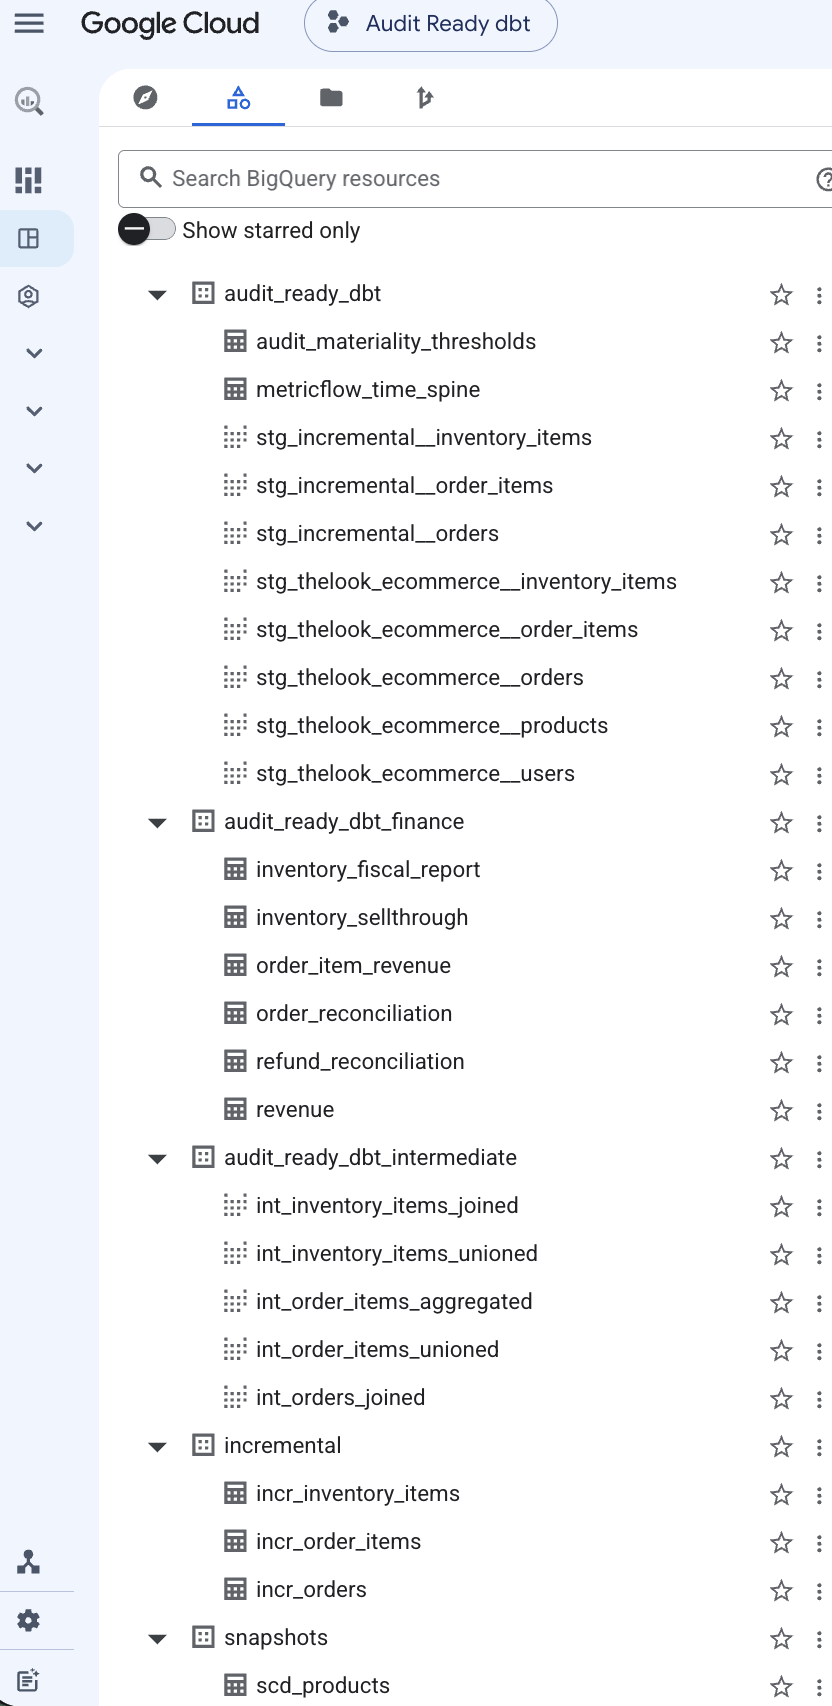
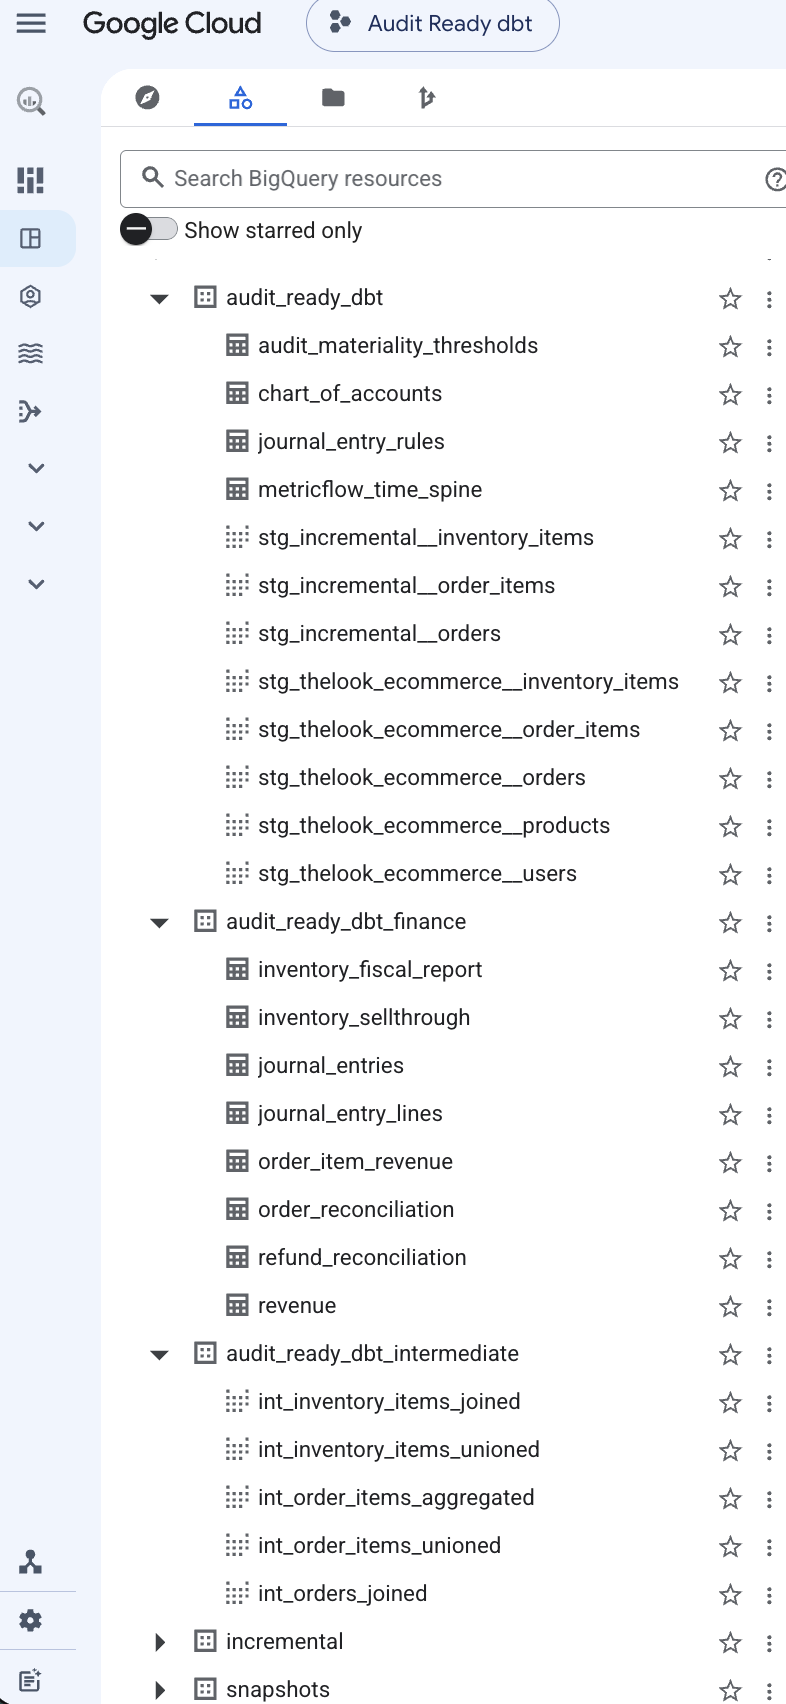
docs: refresh README screenshots and add AWS, parity, and CI captures
Replaced screenshots that predated the GL pipeline:
- lineage graph now includes the JE models, seeds, and tests
- the Airflow DAG list and grid show both DAGs and the AWS branch
- test results, BigQuery tree, Snowflake explorer

New screenshots, with captions:
- Athena query editor: the dbt-built tables and one day's balanced JEs
- S3 reports bucket: one business day's export files
- CloudFormation: the SAM-deployed stack and its four resources
- cross_warehouse_parity graph and its check_parity output
- GitHub Actions: all three CI jobs passing on main

Captions and surrounding text now match the new screenshots. The test
results note reflects zero warnings on the current data, and the parity
doc's result table matches the Airflow run shown in the screenshot.

diff --git a/README.md b/README.md
@@ -51,6 +51,8 @@ I adopted a hybrid architecture to balance development efficiency with productio
     - **Snowflake run results**: Verified end-to-end on 2026-09-13 — `dbt build --target snowflake` against a live Snowflake warehouse completed with zero errors (166 pass / 22 success / 1 expected warn). See [`docs/snowflake_prod_verification.md`](docs/snowflake_prod_verification.md) for details.
       ![Snowflake databases and schemas built by dbt](./images/snowflake_dbt_build.png)
     - **AWS Athena run results**: Verified end-to-end on 2026-09-29 — `dbt build --target athena` against **S3 + Glue Data Catalog + Athena** completed with zero errors (166 pass / 22 success / 1 expected warn), identical to BigQuery and Snowflake. Incremental marts are stored as **Iceberg** tables so `merge` works on Athena; a follow-up incremental run confirmed rows were upserted without duplicates. Access uses a dedicated least-privilege IAM user scoped to the project's S3 buckets. See [`docs/athena_prod_verification.md`](docs/athena_prod_verification.md) for details.
+      ![Athena query editor: Glue databases built by dbt and a journal_entries query result](./images/athena_query_journal_entries.png)
+      *Athena query editor — the tables dbt built in `audit_ready_dbt_finance` (left), and one day's journal entries: three balanced debit/credit pairs (revenue, returns, COGS) with the number of order/item lines behind each*
     - **Cross-warehouse parity (automated)**: Passing tests on every warehouse doesn't prove the *numbers* agree. The weekly `cross_warehouse_parity` DAG loads identical sources into DuckDB, BigQuery, and Athena, fully rebuilds each, and compares journal-entry debits, row counts, and headline mart totals to the cent. Its first run caught two real DuckDB-only defects the per-warehouse test suites had missed — 32-bit float currency columns and host-time-zone-dependent posting dates — both fixed (see the macros table below). See [`docs/cross_warehouse_parity.md`](docs/cross_warehouse_parity.md).
 
 ### 3. Modular Transformation (dbt)
@@ -170,13 +172,16 @@ LEFT JOIN {{ ref('scd_products') }} scd
 
 * **Weekly parity check** (📂 `dags/cross_warehouse_parity.py`, Sundays 12:00 UTC or manual): reloads all sources into BigQuery and Athena, runs `dbt build --full-refresh` on DuckDB (a separate `parity.duckdb`), BigQuery, and Athena in parallel, then `scripts/check_warehouse_parity.py` compares ten metrics across all three via `dbt show` — so `ref()` resolves per warehouse and no engine-specific SQL is needed — and fails on any difference. Snowflake is excluded because it ran on a 30-day trial.
 
+  ![Airflow grid for cross_warehouse_parity: loads, three parallel builds, and the parity check all succeeding](./images/airflow_parity_dag.png)
+  *`cross_warehouse_parity` — BigQuery and Athena source loads, full-refresh builds on DuckDB, BigQuery, and Athena in parallel, then `check_parity`*
+
 ![Airflow DAG Overview](./images/airflow_dag_overview.png)
 
-*DAG list — `dbt_daily_incremental` active and scheduled daily at 09:00 UTC*
+*DAG list — the daily pipeline and the weekly parity check*
 
 ![Airflow DAG Runs](./images/airflow_dag_runs.png)
 
-*Grid view — all 8 tasks completing successfully across daily runs*
+*Grid view — daily runs succeeding; the three AWS-branch tasks appear from the latest runs*
 
 ### 5. SCD Type 2 Snapshot (Product Price Tracking)
 * **File**: 📂 `snapshots/scd_products.sql`
@@ -187,7 +192,7 @@ LEFT JOIN {{ ref('scd_products') }} scd
 ### 6. Quality Control
 * **Automated Reconciliation**: Custom dbt tests to flag financial discrepancies.
 ![dbt Test Results](./images/test_results.png)
-> The one `WARN` above is `assert_fulfillment_lead_time_within_baseline` — expected, not a failure. It's a warn-severity test that flags when the negative-lead-time rate (a known source-data defect, see below) rises well past its historical baseline. It's designed to warn rather than block the build, since the underlying defect can't be fixed at the transform layer.
+> All 200 tests pass. `assert_fulfillment_lead_time_within_baseline` is intentionally warn-severity: it flags a known source-data defect (see below) that can't be fixed at the transform layer, so it warns rather than blocks — and currently doesn't fire.
 
     * **Model Schema Tests** (column-level constraints & descriptions):
         - 📂 `models/staging/thelook_ecommerce/_thelook_ecommerce__models.yml`
@@ -214,6 +219,9 @@ LEFT JOIN {{ ref('scd_products') }} scd
         - 📂 `audit_refund_anomalies.sql` — detects partial refund patterns, high-value full reversals, and orders where refund exceeds 50% of gross revenue
         - 📂 `audit_fulfillment_lead_time_anomalies.sql` — flags items where `shipped_at` precedes `created_at`, a source-data defect traced to the raw feed
 * **CI** (GitHub Actions — 📂 `.github/workflows/ci.yml`): SQLFluff lint and `dbt build` run automatically on every push and pull request to `main`. PRs run **Slim CI** — `dbt build --select state:modified+ --defer`, scoped to changed models and their downstream — using main's last successful build as the deferral baseline. Since DuckDB is a single-file database rather than a persistent shared warehouse, that baseline is both the `manifest.json` *and* the built `dev.duckdb` itself, uploaded as a GitHub Actions artifact on every successful `main` push and restored at the start of the next PR; if no baseline exists yet, it falls back to a full build. A separate job runs Ruff and the pytest suites (`lambdas/`, `scripts/`) on Python 3.12 (the Lambda runtime). dbt-core is pinned to the version used locally and in the Airflow image, and Slim CI only defers to a baseline built by the same dbt version — otherwise it falls back to a full build, since a newer dbt's manifest may not parse.
+
+  ![GitHub Actions CI: SQLFluff Lint, dbt Test, and Python Unit Tests all passing](./images/github_actions_ci.png)
+  *CI on `main` — SQL lint, the dbt build, and the Python unit tests (Lambda + generator) run as three parallel jobs. The two artifacts are this build's `manifest.json` and `dev.duckdb`, which the next PR's Slim CI defers to.*
 
 ### 7. SQL Code Quality (SQLFluff)
 * **Linter**: [SQLFluff](https://sqlfluff.com/) — DuckDB dialect, dbt Jinja templater (📂 `.sqlfluff`). Enforces consistent formatting and explicit column qualification across all SQL models.
@@ -397,7 +405,13 @@ Depends on `int_inventory_items_joined` (model), `scd_products` (snapshot), `fis
 | `REFUND_EXCEEDS_REVENUE` | High | Refund larger than the order's gross revenue |
 
 * **Outputs** (`s3://audit-ready-dbt-reports-*/je-pipeline/period=<start>_<end>/`): `journal_entries.csv` (GL upload file), `journal_detail.csv` (support for every amount), `exceptions.csv`, `run_summary.json`. The bucket is versioned with `DeletionPolicy: Retain` — each period's export is a point-in-time record of what was posted, which the marts cannot provide because incremental merges and fixes keep changing history.
+
+  ![S3 reports bucket: one business day's journal-entry export files](./images/s3_je_pipeline_outputs.png)
+  *`je-pipeline/period=2026-09-29_2026-09-29/`, written by the daily DAG's `export_journal_entries` — the GL upload file (three balanced entries: revenue, returns, COGS), the order/item-level support, the exception report (header only: no exceptions that day), and the run summary*
 * **Infrastructure as code** (📂 `lambdas/template.yaml`, deployed with AWS SAM): the function, its least-privilege execution role (Athena, Glue read, S3 read, write only to query results and the reports bucket), the reports bucket, and a 30-day log group. Deploys use a separate IAM user; the daily pipeline's user can only invoke the function.
+
+  ![CloudFormation stack audit-ready-je-pipeline with its four resources](./images/cloudformation_stack_resources.png)
+  *CloudFormation stack `audit-ready-je-pipeline`, deployed by SAM from `lambdas/template.yaml` — the Lambda function, its execution role, the log group, and the versioned reports bucket. Code redeploys update only the function; the role, bucket, and log group are untouched.*
 * **First-run finding → detective to preventive control**: On its first real run, a `FUTURE_DATED_SHIPMENT` exception rule flagged orders whose `shipped_at` had been written up to 48 hours *ahead* of generation time by the synthetic-data generator — `revenue` was recognizing revenue for shipments that had not happened yet (139 future-dated events in the marts). The root cause was fixed in the generator (see [§3.1](#1-ingestion--synthetic-data-generation)), and the check moved from the Lambda, which could only report it *after* posting, into an error-severity dbt test (`assert_no_future_dated_events`) that fails the Athena build and so blocks the GL export.
 * **Verification**: [`docs/je_pipeline_verification.md`](docs/je_pipeline_verification.md).
 

diff --git a/docs/cross_warehouse_parity.md b/docs/cross_warehouse_parity.md
@@ -21,20 +21,29 @@ the [README](../README.md#2-high-performance-local-development).
 
 ## Result
 
-All three builds: 224 pass / 0 error. All ten metrics match.
+Airflow run, 2026-09-29: all three builds 226 pass / 0 error; all ten metrics match.
+
+![check_parity output: ten metrics side by side for DuckDB, BigQuery, and Athena](../images/parity_check_output.png)
+
+*`check_parity` task log from that run*
 
 | Metric | DuckDB | BigQuery | Athena |
 |---|---|---|---|
-| `inventory_fiscal_report.period_cogs` | 544,375.23 | 544,375.23 | 544,375.23 |
-| `journal_entries.COGS.debits` | 544,376.73 | 544,376.73 | 544,376.73 |
-| `journal_entries.RET.debits` | 320,250.30 | 320,250.30 | 320,250.30 |
-| `journal_entries.REV.debits` | 2,038,244.25 | 2,038,244.25 | 2,038,244.25 |
-| `journal_entries.rows` | 8,022 | 8,022 | 8,022 |
-| `journal_entry_lines.rows` | 33,012 | 33,012 | 33,012 |
+| `inventory_fiscal_report.period_cogs` | 550,955.99 | 550,955.99 | 550,955.99 |
+| `journal_entries.COGS.debits` | 550,957.49 | 550,957.49 | 550,957.49 |
+| `journal_entries.RET.debits` | 315,824.30 | 315,824.30 | 315,824.30 |
+| `journal_entries.REV.debits` | 2,113,806.25 | 2,113,806.25 | 2,113,806.25 |
+| `journal_entries.rows` | 8,142 | 8,142 | 8,142 |
+| `journal_entry_lines.rows` | 33,837 | 33,837 | 33,837 |
 | `order_reconciliation.breaks` | 0 | 0 | 0 |
-| `refund_reconciliation.refund_amount` | 320,250.30 | 320,250.30 | 320,250.30 |
-| `revenue.cutoff_risk_orders` | 534 | 534 | 534 |
-| `revenue.recognized_revenue` | 2,038,244.25 | 2,038,244.25 | 2,038,244.25 |
+| `refund_reconciliation.refund_amount` | 315,824.30 | 315,824.30 | 315,824.30 |
+| `revenue.cutoff_risk_orders` | 570 | 570 | 570 |
+| `revenue.recognized_revenue` | 2,113,806.25 | 2,113,806.25 | 2,113,806.25 |
+
+The first passing comparison, run locally earlier the same day on the
+pre-fix synthetic data (224 pass per build), matched in the same way:
+recognized revenue 2,038,244.25, COGS debits 544,376.73, and 8,022 journal
+entries on all three warehouses.
 
 ## Defects found by the first run
 
